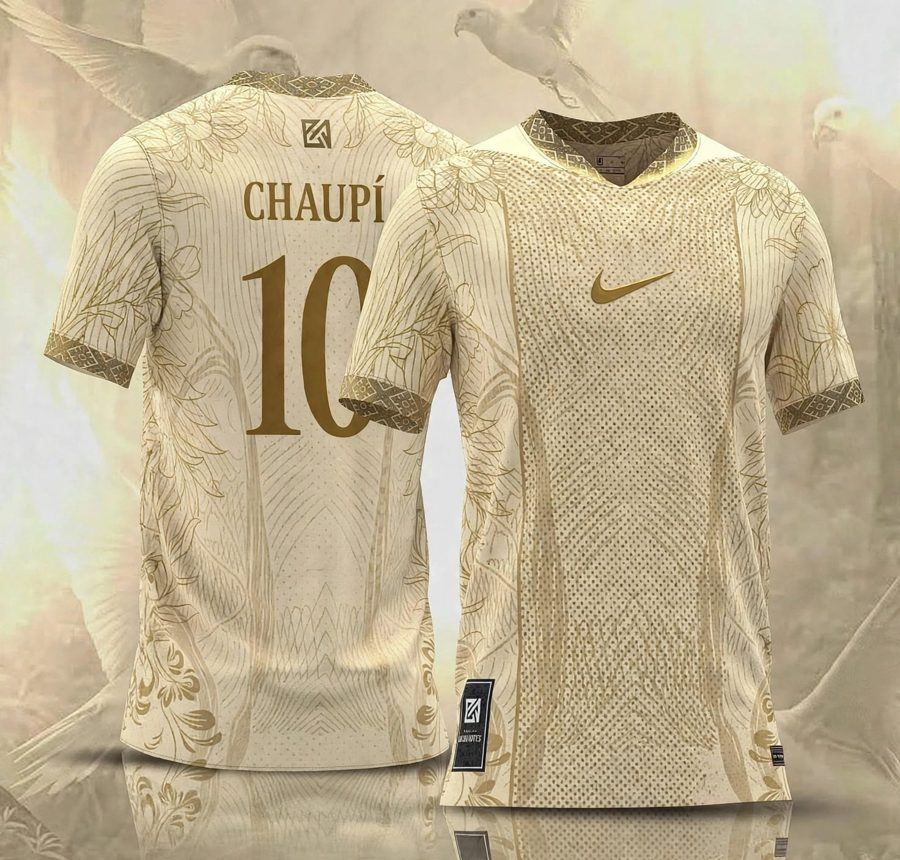
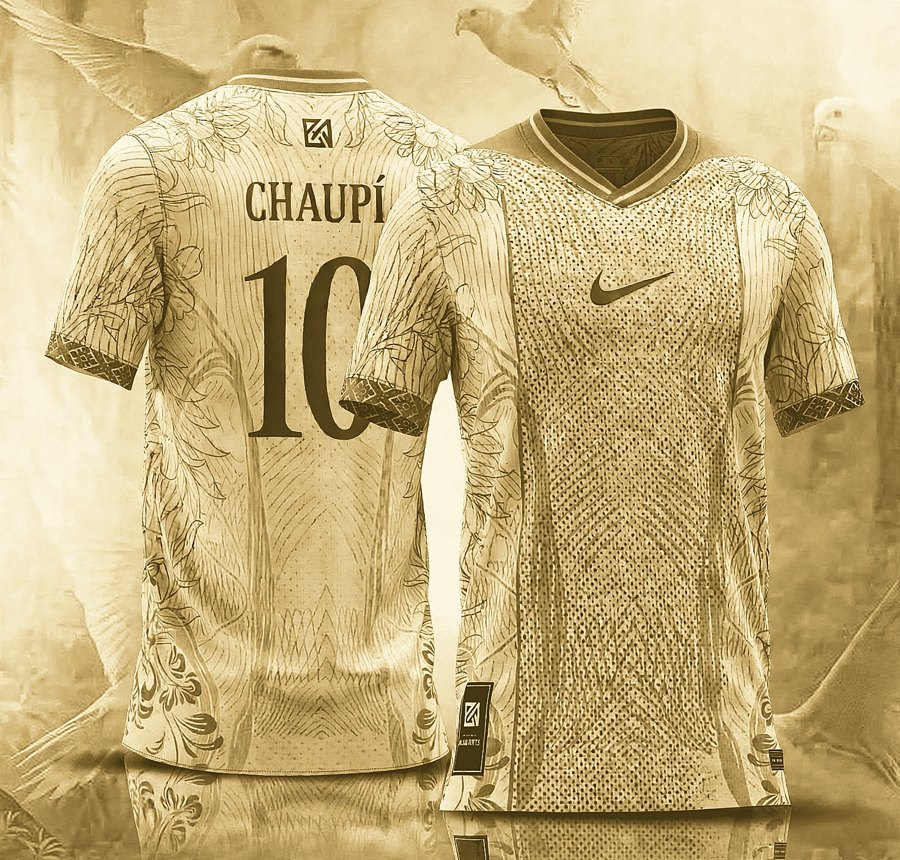
Polos: vuelve al polo dorado, quita el azul
Claude-Session: https://claude.ai/code/session_01A8XqBnZKvaA8Qt53CzZ7g9

diff --git a/polos.html b/polos.html
@@ -1,25 +1,25 @@
 <!doctype html><html lang=es><head><meta charset=utf-8><meta name=viewport content="width=device-width,initial-scale=1">
-<title>Pedido Camisetas</title><meta name=theme-color content="#1B2A5C">
+<title>Pedido Polo Dorado</title><meta name=theme-color content="#7A5C1E">
 <style>
 *{box-sizing:border-box}body{margin:0;font-family:system-ui,Segoe UI,Arial;background:#F7F2E6;color:#3A2C0F}
-header{background:#1B2A5C;color:#fff;padding:14px 16px;text-align:center}header b{font-size:20px}header small{display:block;opacity:.85}
+header{background:#7A5C1E;color:#fff;padding:14px 16px;text-align:center}header b{font-size:20px}header small{display:block;opacity:.85}
 .w{max-width:560px;margin:0 auto;padding:14px 16px 40px}img{width:100%;border-radius:14px;display:block}
 .c{background:#fff;border-radius:14px;padding:14px;margin-top:12px;box-shadow:0 2px 8px #0001}
 label{display:block;font-weight:700;font-size:13px;margin:10px 0 4px}input,select{width:100%;padding:11px;border:2px solid #E2D6B8;border-radius:10px;font-size:16px;background:#FFFDF7}
-.row{display:grid;grid-template-columns:1fr 1fr;gap:10px}.tl{display:flex;gap:6px}.tl button{flex:1;padding:11px 0;border:2px solid #E2D6B8;background:#FFFDF7;border-radius:10px;font-weight:800;font-size:15px;cursor:pointer;color:#3A2C0F}.tl button.on{background:#1B2A5C;color:#fff;border-color:#1B2A5C}
-.go{width:100%;margin-top:14px;padding:14px;border:0;border-radius:12px;background:#C62828;color:#fff;font-weight:900;font-size:17px;cursor:pointer}.go:disabled{opacity:.5}
+.row{display:grid;grid-template-columns:1fr 1fr;gap:10px}.tl{display:flex;gap:6px}.tl button{flex:1;padding:11px 0;border:2px solid #E2D6B8;background:#FFFDF7;border-radius:10px;font-weight:800;font-size:15px;cursor:pointer;color:#3A2C0F}.tl button.on{background:#7A5C1E;color:#fff;border-color:#7A5C1E}
+.go{width:100%;margin-top:14px;padding:14px;border:0;border-radius:12px;background:#B8892B;color:#fff;font-weight:900;font-size:17px;cursor:pointer}.go:disabled{opacity:.5}
 .msg{margin-top:10px;font-weight:700;text-align:center}
 .k{display:flex;gap:6px;flex-wrap:wrap}.k span{background:#F3E7C9;border-radius:999px;padding:6px 12px;font-weight:800}
 table{width:100%;border-collapse:collapse;font-size:14px;margin-top:8px}td,th{padding:7px 5px;border-bottom:1px solid #EFE6CF;text-align:left}th{font-size:12px;color:#8A7444}
 .x{border:0;background:none;color:#B33;cursor:pointer;font-size:16px}
-.ab{border:2px solid #E2D6B8;background:#FFFDF7;border-radius:10px;padding:6px 10px;font-weight:800;cursor:pointer;margin-left:4px;color:#3A2C0F}.ab.on{background:#1B2A5C;color:#fff;border-color:#1B2A5C}
+.ab{border:2px solid #E2D6B8;background:#FFFDF7;border-radius:10px;padding:6px 10px;font-weight:800;cursor:pointer;margin-left:4px;color:#3A2C0F}.ab.on{background:#7A5C1E;color:#fff;border-color:#7A5C1E}
 .ed{border:0;background:none;cursor:pointer;font-size:16px}
-dialog{border:0;border-radius:16px;padding:0;width:min(360px,92vw)}dialog::backdrop{background:#0007}.dh{background:#1B2A5C;color:#fff;padding:12px 16px;font-weight:800}.db{padding:12px 16px}
+dialog{border:0;border-radius:16px;padding:0;width:min(360px,92vw)}dialog::backdrop{background:#0007}.dh{background:#7A5C1E;color:#fff;padding:12px 16px;font-weight:800}.db{padding:12px 16px}
 .bt{display:flex;gap:8px;margin-top:12px}.bt button{flex:1;padding:11px;border:0;border-radius:10px;font-weight:800;cursor:pointer}
 </style></head><body>
-<header><b>👕 Pedido · Camiseta Sport Galácticos</b><small>Anótate con tu talla, nombre y número</small></header>
+<header><b>👕 Pedido · Polo Dorado</b><small>Anótate con tu talla, nombre y número</small></header>
 <div class=w>
-<img src="polo-galacticos.jpg" alt="Camiseta Sport Galácticos">
+<img src="polo-dorado.jpg" alt="Polo dorado">
 <div class=c>
 <label>Tu nombre completo</label><input id=nom maxlength=80 placeholder="Ej. Juan Pérez">
 <label>Para</label><div class=tl id=tp><button data-p=Hombre class=on>👨 Hombre</button><button data-p=Mujer>👩 Mujer</button><button data-p=Niño>🧒 Niño</button></div>
@@ -36,7 +36,7 @@ dialog{border:0;border-radius:16px;padding:0;width:min(360px,92vw)}dialog::backd
 <label>Nombre</label><input id=enom maxlength=80><label>Para</label><select id=etip><option>Hombre</option><option>Mujer</option><option>Niño</option></select><label>Talla polo</label><select id=etal></select><label>Talla short</label><select id=esho></select>
 <div class=row><div><label>Espalda</label><input id=eesp maxlength=20 style="text-transform:uppercase"></div><div><label>Número</label><input id=enum maxlength=3></div></div>
 <label>Cantidad</label><select id=ecan></select>
-<div class=bt><button id=eok style="background:#C62828;color:#fff">Guardar</button><button id=edel style="background:#FDE8E8;color:#B33">Borrar</button><button id=ecl style="background:#EEE">Cerrar</button></div></div></dialog>
+<div class=bt><button id=eok style="background:#B8892B;color:#fff">Guardar</button><button id=edel style="background:#FDE8E8;color:#B33">Borrar</button><button id=ecl style="background:#EEE">Cerrar</button></div></div></dialog>
 <script>
 const SB="https://rqvcvffyynpnighzwxju.supabase.co",K="sb_publishable_keWbJCavFGWO_B976cjxAA_Gd5JMzFn",H={apikey:K,Authorization:"Bearer "+K,"Content-Type":"application/json"};
 const TA={Hombre:["S","M","L","XL","XXL"],Mujer:["S","M","L","XL"],Niño:["2","4","6","8","10","12","14","16"]},TALL=[...new Set(Object.values(TA).flat())];let T=TA.Hombre,tipo="Hombre",sho="",talla="",env=false,PIN="",DATA=[],EID=null;const $=i=>document.getElementById(i);
